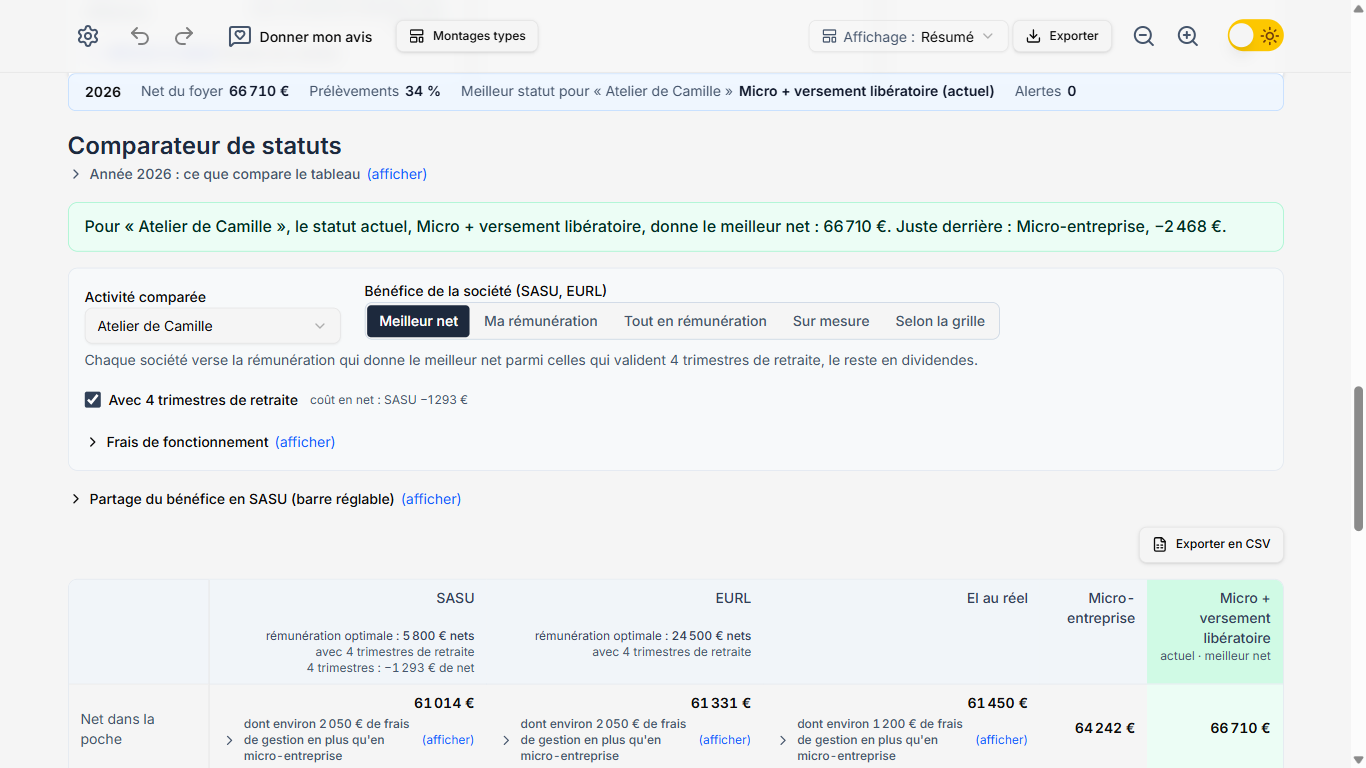
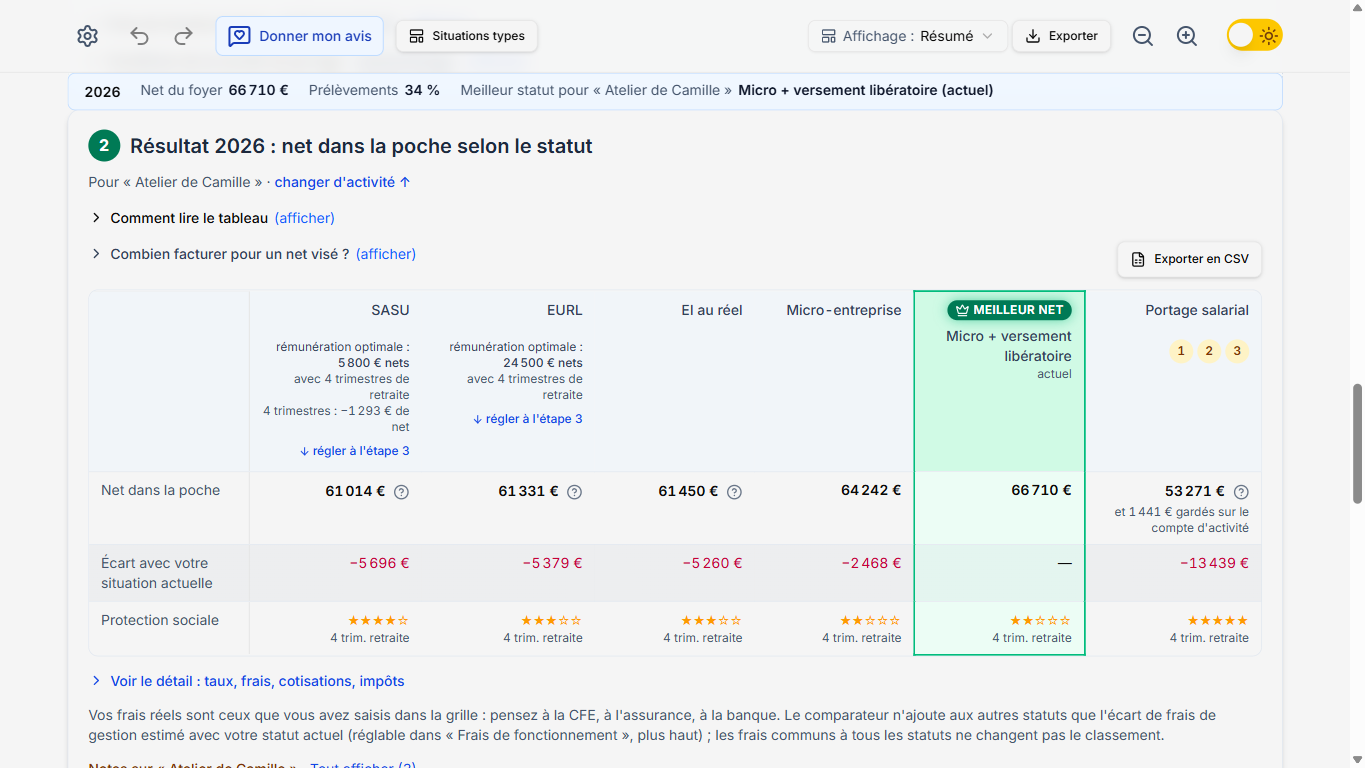
docs: Documentation et captures à jour avant la 0.14.0
- README : comparateur en trois étapes, versements reçus dans la grille, 4 trimestres colonne par colonne, recherche des situations types, AutoAnimate, tests sur integration et dans Firefox ;
- guide du développeur : captures du Store, ADR 017 à 019, animations (useListeAnimee, HauteurAnimee) ;
- Roadmap : état au 22/11, étape « Comparer et optimiser » en trois étapes, douze situations types ;
- installation (bandeau réduit), IA (limite de rémunération, zone franche), publication (captures avant une version) ;
- captures : README à l'échelle CSS (même taille quel que soit l'écran), comparateur entier dans une page de 2 400 px, résultats sous la barre de résumé ; Store : le tableau du comparateur (étape 2) au lieu de son haut.

diff --git a/captures/readme.captures.ts b/captures/readme.captures.ts
@@ -5,6 +5,7 @@ import path from "node:path"
 import { test, expect, deposerSession } from "../e2e/support/fixtures"
 import { sessionExemple } from "../src/web/session-exemple"
 
+// À l'échelle CSS (1 pixel par pixel de la page) : des images de même taille quel que soit le facteur d'échelle de l'écran.
 const DOSSIER = path.resolve("docs/captures")
 
 test("captures du README", async ({ dossierDonnees, lancer }) => {
@@ -16,19 +17,23 @@ test("captures du README", async ({ dossierDonnees, lancer }) => {
   // Fenêtre plus haute pour cette capture : les personnes et activités, puis plusieurs lignes de la grille de saisie.
   await electronApp.evaluate(({ BrowserWindow }) => BrowserWindow.getAllWindows()[0]?.setSize(1440, 1500))
   await expect.poll(() => page.evaluate(() => window.innerHeight)).toBeGreaterThan(1300)
-  await page.screenshot({ path: path.join(DOSSIER, "acteurs-et-grille.png") })
+  await page.screenshot({ path: path.join(DOSSIER, "acteurs-et-grille.png"), scale: "css" })
   await electronApp.evaluate(({ BrowserWindow }) => BrowserWindow.getAllWindows()[0]?.setSize(1440, 900))
   await expect.poll(() => page.evaluate(() => window.innerHeight)).toBeLessThan(1000)
 
-  // La barre du haut est fixe : on fait défiler pour que la section commence juste en dessous.
-  await page.getByRole("heading", { name: "Résultats de simulation" }).evaluate(titre => window.scrollTo(0, titre.getBoundingClientRect().top + window.scrollY - 110))
-  await page.screenshot({ path: path.join(DOSSIER, "resultats.png") })
+  // La barre du haut est fixe et la barre de résumé collée dessous : on fait défiler pour que la section commence sous les deux.
+  await page.getByRole("heading", { name: "Résultats de simulation" }).evaluate(titre => window.scrollTo(0, titre.getBoundingClientRect().top + window.scrollY - 140))
+  await page.screenshot({ path: path.join(DOSSIER, "resultats.png"), scale: "css" })
 
   // Pour les captures d'une zone, la barre du haut (fixe) et la barre de résumé (collante) sont masquées : elles la
-  // recouvriraient. La fenêtre s'agrandit pour que le comparateur y tienne entier : une zone plus haute que la fenêtre
-  // est capturée décalée (la page, recalculée sans barre de défilement, se recentre pendant la capture).
+  // recouvriraient. La page est agrandie pour que le comparateur, en trois étapes, y tienne entier : une zone plus haute
+  // que la page est capturée décalée (la page, recalculée sans barre de défilement, se recentre pendant la capture). Une
+  // fenêtre de cette hauteur dépasserait l'écran, que Windows lui impose : la taille est imposée à la page elle-même.
   const sansBarre = "nav, [data-barre-collante] { visibility: hidden !important; }"
-  await electronApp.evaluate(({ BrowserWindow }) => BrowserWindow.getAllWindows()[0]?.setSize(1440, 1150))
+  const cdp = await electronApp.context().newCDPSession(page)
+  const facteur = await page.evaluate(() => window.devicePixelRatio)
+  await cdp.send("Emulation.setDeviceMetricsOverride", { width: 1440, height: 2400, deviceScaleFactor: facteur, mobile: false })
+  await expect.poll(() => page.evaluate(() => window.innerHeight)).toBe(2400)
   const comparateur = page.getByRole("region", { name: "Comparateur de statuts" })
   const optimisation = page.getByRole("region", { name: "Rémunération ou dividendes ?" })
   await expect(comparateur.getByRole("table", { name: "Comparaison des statuts" })).toBeVisible()
@@ -36,7 +41,7 @@ test("captures du README", async ({ dossierDonnees, lancer }) => {
   // Le tableau des statuts seul, sans la section d'optimisation qui le suit ; une référence à l'élément la retrouve une fois masquée.
   const sectionOptimisation = await optimisation.elementHandle()
   await sectionOptimisation!.evaluate(section => section.setAttribute("hidden", ""))
-  await comparateur.screenshot({ path: path.join(DOSSIER, "comparateur.png"), style: sansBarre })
+  await comparateur.screenshot({ path: path.join(DOSSIER, "comparateur.png"), scale: "css", style: sansBarre })
   await sectionOptimisation!.evaluate(section => section.removeAttribute("hidden"))
-  await optimisation.screenshot({ path: path.join(DOSSIER, "optimisation.png"), style: sansBarre })
+  await optimisation.screenshot({ path: path.join(DOSSIER, "optimisation.png"), scale: "css", style: sansBarre })
 })

diff --git a/captures/store.captures.ts b/captures/store.captures.ts
@@ -15,7 +15,7 @@ const HAUTEUR = 768
 const capturer = (page: Page, nom: string) => page.screenshot({ path: path.join(DOSSIER, nom), scale: "css" })
 
 /** Fait défiler la page pour que l'élément commence juste sous la barre du haut, qui est fixe. */
-async function amenerSousLaBarre(page: Page, nom: string) {
+async function amenerSousLaBarre(page: Page, nom: string | RegExp) {
   await page.getByRole("heading", { name: nom }).first().evaluate(titre => window.scrollTo(0, titre.getBoundingClientRect().top + window.scrollY - 130))
 }
 
@@ -37,7 +37,8 @@ test("captures de la fiche du Microsoft Store", async ({ dossierDonnees, lancer 
   await capturer(page, "3-resultats.png")
 
   await expect(page.getByRole("region", { name: "Comparateur de statuts" }).getByRole("table", { name: "Comparaison des statuts" })).toBeVisible()
-  await amenerSousLaBarre(page, "Comparateur de statuts")
+  // L'étape 2 du comparateur, son tableau : le net de chaque statut, l'écart et la protection sociale.
+  await amenerSousLaBarre(page, /^Étape 2 : Résultat \d{4}/)
   await capturer(page, "4-comparateur.png")
 
   await expect(page.getByRole("region", { name: "Rémunération ou dividendes ?" }).getByRole("group", { name: /Net du foyer selon la rémunération/ })).toBeVisible()

diff --git a/README.md b/README.md
@@ -29,7 +29,7 @@ Simulation fictive : une indépendante en micro-entreprise mixte, pacsée avec l
 |---|---|
 | ![Acteurs et relations, éditables sur leur carte](docs/captures/acteurs-et-grille.png) | ![Bilan : net dans la poche, taux de prélèvement, détail par foyer](docs/captures/resultats.png) |
 
-![Comparateur de statuts : net, prélèvements, frais de fonctionnement et protection sociale pour chaque statut](docs/captures/comparateur.png)
+![Comparateur de statuts en trois étapes : l'activité comparée, le net dans la poche de chaque statut avec le meilleur net mis en évidence, puis le partage du bénéfice de la SASU et de l'EURL](docs/captures/comparateur.png)
 
 ![Rémunération ou dividendes : courbe du net du foyer selon la rémunération, meilleur net et meilleur net avec 4 trimestres de retraite](docs/captures/optimisation.png)
 
@@ -38,15 +38,15 @@ Les captures sont générées par `npm run captures` (Playwright, sur l'applicat
 ## ✨ Fonctionnalités
 
 - **Modélisation par graphe** : entités (personnes, sociétés, micro-entreprises) reliées par des relations (Marié(e), PACSé(e), Enfant, Président, Gérant…).
-- **Grille annuelle visuelle** : saisie des flux mois par mois ou d'un montant annuel réparti sur les 12 mois, ajout d'un flux sur plusieurs mois en une fois, modification ou retrait d'un mois puis, d'un clic, des autres mois où le même flux existe, et recopie sur les mois suivants (loyer, abonnement, salaire), légende numérotée et couleurs personnalisables. Pour une micro-entreprise, la nature du chiffre d'affaires (prestations libérales, prestations artisanales ou commerciales, vente de marchandises) est expliquée à la saisie, avec ses taux de l'année et des exemples de métiers.
+- **Grille annuelle visuelle** : saisie des flux mois par mois ou d'un montant annuel réparti sur les 12 mois, ajout d'un flux sur plusieurs mois en une fois, modification ou retrait d'un mois puis, d'un clic, des autres mois où le même flux existe, et recopie sur les mois suivants (loyer, abonnement, salaire), légende numérotée et couleurs personnalisables. La rémunération et les dividendes versés par une société s'affichent aussi, hachurés, sur la ligne de la personne qui les reçoit. Pour une micro-entreprise, la nature du chiffre d'affaires (prestations libérales, prestations artisanales ou commerciales, vente de marchandises) est expliquée à la saisie, avec ses taux de l'année et des exemples de métiers.
 - **Simulation par foyer** : chaque activité (SASU, EURL, entreprise individuelle au réel, micro-entreprise) calcule ses cotisations et ce qu'elle verse ; l'impôt sur le revenu est ensuite calculé une seule fois par foyer fiscal (quotient familial plafonné, décote, dividendes au forfait ou au barème). Les résultats se recalculent à chaque modification.
-- **Comparateur de statuts** : pour une activité, net dans la poche (celui des résultats pour le statut actuel), taux de prélèvement, écart de frais de gestion avec le statut actuel détaillé par poste, et note de protection sociale (trimestres de retraite validés) en SASU, EURL, EI au réel, micro-entreprise (avec et sans versement libératoire) et portage salarial ; pour un couple en union libre, effet d'un mariage ou d'un PACS sur l'impôt.
+- **Comparateur de statuts**, en trois étapes (ce qui est comparé, le résultat, les réglages de la société) : pour une activité, net dans la poche (celui des résultats pour le statut actuel) en SASU, EURL, EI au réel, micro-entreprise (avec et sans versement libératoire) et portage salarial, le meilleur net mis en évidence ; taux de prélèvement, écart de frais de gestion avec le statut actuel détaillé par poste, bénéfice gardé ou perte restée dans la société, et note de protection sociale (trimestres de retraite validés), détaillée garantie par garantie dans un tableau. Pour un couple en union libre, effet d'un mariage ou d'un PACS sur l'impôt.
 - **Portage salarial** : une colonne du comparateur où l'activité est facturée par une société de portage, qui verse un salaire de cadre du régime général après ses frais de gestion ; bulletin calculé ligne à ligne selon l'effectif de la société, réserve d'un CDI gardée sur le compte d'activité, protection sociale d'un salarié (assurance chômage comprise). Les conditions de la société (frais de gestion, plancher, plafond, frais fixes, contrat, effectif, versement mobilité, réduction générale reversée, mutuelle) se règlent dans « Conditions de la société de portage » ; à défaut, des valeurs typiques annoncées comme telles.
 - **Combien facturer pour un net visé** : le calcul à l'envers du comparateur ; pour le net annuel visé du foyer, le chiffre d'affaires annuel et mensuel nécessaire dans chaque statut, à l'euro près, et l'écart avec celui saisi (ou « hors de portée » quand il faudrait dépasser le plafond de la micro-entreprise).
-- **Rémunération ou dividendes** : pour une société à l'IS (SASU, EURL), courbe du net du foyer selon la rémunération du dirigeant, le reste du bénéfice étant versé en dividendes ; meilleure rémunération, et meilleure parmi celles qui valident 4 trimestres de retraite, à reporter dans le comparateur en un clic. Par défaut, le comparateur place la SASU et l'EURL chacune à sa rémunération optimale qui valide 4 trimestres de retraite, tout le reste en dividendes, et affiche ce que coûte cette exigence en net (elle se décoche). Le partage du bénéfice se choisit (tout en rémunération, tout en dividendes, ou répartition personnalisée) sur une barre réglée à la souris, au doigt ou au clavier, qui montre où va chaque euro du bénéfice.
+- **Rémunération ou dividendes** : pour une société à l'IS (SASU, EURL), courbe du net du foyer selon la rémunération du dirigeant, le reste du bénéfice étant versé en dividendes ; meilleure rémunération, et meilleure parmi celles qui valident 4 trimestres de retraite, à reporter dans le comparateur en un clic. Par défaut, le comparateur place la SASU et l'EURL chacune à sa rémunération optimale qui valide 4 trimestres de retraite, tout le reste en dividendes, et affiche ce que coûte cette exigence en net (elle se décoche colonne par colonne). Une société ne verse jamais plus que ce qu'elle peut sans déficit, et la saisie d'une rémunération le rappelle. Le partage du bénéfice se choisit (tout en rémunération, tout en dividendes, ou répartition personnalisée) sur une barre réglée à la souris, au doigt ou au clavier, qui montre où va chaque euro du bénéfice.
 - **Professions libérales réglementées** : profession choisie sur l'activité (santé de la CARPIMKO, professions de la CIPAV), dont la caisse se déduit : retraite de base des libéraux, complémentaire et invalidité-décès de la caisse, micro-entreprise de la CIPAV à 23,2 % et interdite aux auxiliaires médicaux, CURPS, ASV et prise en charge par l'Assurance maladie de la part conventionnée ; complémentaire et ASV de la CARPIMKO sur le revenu de l'année précédente.
 - **Frais réels et kilométrage** : trajets domicile-travail au barème kilométrique de l'année, un par lieu de travail (limite de 40 km par trajet, kilomètres additionnés par voiture), comparés automatiquement à la déduction de 10 % sur les salaires et rémunérations ; déplacements professionnels d'une activité convertis au barème, déductibles au réel, jamais en micro.
-- **Situations types** : partir d'une situation courante (micro-entreprise, SASU, EURL, couple, ostéopathe, kinésithérapeute, SASU en zone franche urbaine…) préremplie et expliquée, avec ses sources, puis l'adapter. Au premier lancement, ou sur une simulation vide, l'encart « Que voulez-vous savoir ? » y mène par la question posée (combien me restera-t-il, société ou micro, mariage ou Pacs, rémunération ou dividendes, cotisations), ou part de zéro. Dans la démo web, chaque situation type a son lien (par exemple `…/simulateur-independant-fr/#situation=couple-union-libre`), à mettre dans un article pour « Ouvrir cet exemple dans le simulateur » : voir la [liste des identifiants](./documentation/liens-vers-les-situations-types.md).
+- **Situations types** : partir d'une situation courante (micro-entreprise, SASU, EURL, couple, ostéopathe, kinésithérapeute, SASU en zone franche urbaine…) préremplie et expliquée, avec ses sources, puis l'adapter ; une recherche et des filtres (statut, seul ou en couple) les trient. Au premier lancement, ou sur une simulation vide, l'encart « Que voulez-vous savoir ? » y mène par la question posée (combien me restera-t-il, société ou micro, mariage ou Pacs, rémunération ou dividendes, cotisations), ou part de zéro. Dans la démo web, chaque situation type a son lien (par exemple `…/simulateur-independant-fr/#situation=couple-union-libre`), à mettre dans un article pour « Ouvrir cet exemple dans le simulateur » : voir la [liste des identifiants](./documentation/liens-vers-les-situations-types.md).
 - **Dispositifs dans le temps** : ACRE mois par mois, CFE de création et sortie du régime micro après deux années au-delà des plafonds, d'après la date de création de l'activité.
 - **Zone franche urbaine et quartier prioritaire** : une case dans la fiche de l'activité (section repliée « Aides liées au lieu d'implantation ») exonère son bénéfice d'impôt, en tout ou partie, selon sa date de création : régime ZFU-TE pour une création de 2015 à 2025 (bénéfice exonéré plafonné à 50 000 € par an), régime QPV de 2026 à 2030 ; exonération totale pendant soixante mois, puis 60 %, 40 % et 20 %. Les conditions d'accès ne sont pas vérifiées : un avertissement les rappelle, et la fiche dit ce que le calcul suppose. Rien n'apparaît tant que la case n'est pas cochée.
 - **Plusieurs années** : une simulation couvre plusieurs années consécutives (2024 à 2026, et au-delà avec les dernières règles connues et un avertissement), chacune simulée avec ses propres règles ; le revenu fiscal de référence est calculé par foyer et reporté sur le versement libératoire deux ans plus tard ; un tableau compare les années. Jusqu'à dix années consécutives par simulation ; une charge ou un revenu récurrent s'ajoute, se modifie ou se supprime sur plusieurs années à la fois (cases « Aussi en » de la fenêtre des flux, avec raccourcis vers toutes les années, les précédentes ou les suivantes).
@@ -74,7 +74,7 @@ Les captures sont générées par `npm run captures` (Playwright, sur l'applicat
 - **Application :** Electron (process principal Node.js, IPC typé via `contextBridge`).
 - **Interface :** React 19, hooks maison (historique undo/redo, sauvegarde debounced).
 - **Typage & validation :** TypeScript strict, Zod comme source de vérité unique.
-- **Design system :** Tailwind CSS v4, ShadCN/UI, Lucide, dnd-kit.
+- **Design system :** Tailwind CSS v4, ShadCN/UI, Lucide, dnd-kit, AutoAnimate (listes animées).
 - **Build :** Vite, electron-builder.
 
 ## ✨ Points d'intérêt dans le code
@@ -130,8 +130,8 @@ npm run test:mutation  # tests de mutation (Stryker), rapport dans reports/mutat
 - **Cas de référence 2026** : `src/backend/logic/references/` fait tourner le moteur avec les règles réelles de 2026 sur une soixantaine de situations (micro-entreprise, SASU, EURL, EI, salaires, familles, comparateur), dont chaque montant attendu est dérivé à la main des règles officielles. Ils sont liés à 2026 pour toujours, comme les situations types : l'ajout des règles d'une année plus récente ne les désactive pas et ne change pas leurs chiffres (un test le vérifie avec une année fictive).
 - **Valeurs limites** : chaque seuil est testé pile dessus et un euro au-delà (plafonds et TVA de la micro, revenu fiscal de référence du versement libératoire, 4 trimestres, plafond de la sécurité sociale, 3 SMIC de la réduction générale, dividendes d'EURL à 10 % du capital), ainsi que les noms hostiles dans les exports (séparateurs, retours à la ligne, formules), les fichiers retouchés à la main et les séries de flux en bord d'année.
 - **Tests de composants** : fichiers `*.test.tsx` (React Testing Library, user-event, jsdom) qui rejouent les parcours de saisie au clavier, la fenêtre des flux, les cartes d'entités, les résultats et l'historique d'annulation ; `window.api` y est simulé (`src/ui/testing/`).
-- **Tests de bout en bout** (optionnels) : fichiers `e2e/*.e2e.ts`, où Playwright pilote l'application Electron compilée (création d'entités, saisie dans la grille, résultats, historique, sauvegarde automatique, conversion d'un ancien format, sauvegardes nommées). Chaque test lance l'application sur un dossier de données temporaire (`--user-data-dir`), sans toucher aux vraies données ; aucun navigateur à télécharger. En intégration continue, ils tournent sur `main` et à la demande.
-- **Démo web** : `e2e-web/*.web.ts` ouvre la version navigateur compilée dans Chromium (simulation d'exemple, calculs, conservation des modifications, retour à l'exemple ; manifeste, installabilité relevée par Chromium, réouverture et calcul hors ligne dans `installable.web.ts`, seul fichier où le service worker n'est pas bloqué). Elle nécessite une fois `npm run installer:chromium`. À chaque push sur `main`, la CI la teste puis la publie sur GitHub Pages.
+- **Tests de bout en bout** (optionnels) : fichiers `e2e/*.e2e.ts`, où Playwright pilote l'application Electron compilée (création d'entités, saisie dans la grille, résultats, historique, sauvegarde automatique, conversion d'un ancien format, sauvegardes nommées). Chaque test lance l'application sur un dossier de données temporaire (`--user-data-dir`), sans toucher aux vraies données ; aucun navigateur à télécharger. En intégration continue, ils tournent sur `integration`, sur `main` et à la demande.
+- **Démo web** : `e2e-web/*.web.ts` ouvre la version navigateur compilée dans Chromium (simulation d'exemple, calculs, conservation des modifications, retour à l'exemple ; manifeste, installabilité relevée par Chromium, réouverture et calcul hors ligne dans `installable.web.ts`, seul fichier où le service worker n'est pas bloqué). Elle nécessite une fois `npm run installer:chromium`. Les fichiers de mise en page sont aussi joués dans Firefox (`npm run test:web:firefox:mise-en-page`), sur `integration` et `main`. À chaque push sur `main`, la CI la teste puis la publie sur GitHub Pages.
 - **Accessibilité (WCAG 2.2 AA, qui couvre le RGAA)** : audit axe-core de la démo web et de l'application dans les tests de bout en bout (chargement, comparateur déplié, mode sombre, téléphone, fenêtres), bloquant en CI ; tests dédiés des zones cliquables (24 px, 44 px sur écran tactile), des tailles de texte (12 px au moins, 14 px pour les phrases), du parcours au clavier avec focus visible et du curseur.
 - **Couverture** : seuil bloquant de 90 % (instructions, branches, fonctions, lignes) sur `src/backend/logic/` et `src/lib/`.
 - **Complexité** : règle ESLint `complexity` plafonnée à 12 sur `src/`, sans exception.

diff --git a/Roadmap.md b/Roadmap.md
@@ -1,10 +1,10 @@
 # Roadmap de Développement Détaillée v3.0
 
-- **Dernière mise à jour :** 19/11/2026
+- **Dernière mise à jour :** 22/11/2026
 
 ## **État Actuel du Projet**
 
-Le socle (graphe d'entités, grille visuelle, persistance validée par Zod), les tests automatisés avec intégration continue, le moteur de simulation par foyer fiscal, le comparateur de statuts et l'arbitrage rémunération / dividendes sont en place, avec une démo web publiée sur GitHub Pages. L'accessibilité (WCAG 2.2 AA) est vérifiée automatiquement. Les chiffres s'exportent en CSV, en PDF et en rapport Markdown. Les cotisations du président de SASU et des salariés sont calculées ligne à ligne. Une session couvre désormais plusieurs années, chacune avec ses règles, et le revenu fiscal de référence est reporté sur le versement libératoire. Sont venus depuis : bénéfice mis en réserve, flux récurrents, sortie du régime micro, professions libérales réglementées (CIPAV, CARPIMKO), portage salarial, calcul à l'envers (« Combien facturer ? »), serveur MCP local pour les IA (propositions validées dans l'application, ou modification directe sauf suppression), situations types et leurs liens, affichage « Trois vues » par défaut. Prochaine étape : les retours des utilisateurs (issue 1 : le conjoint est fait ; l'exonération d'impôt sur les bénéfices ZFU-TE / QPV reste à faire).
+Le socle (graphe d'entités, grille visuelle, persistance validée par Zod), les tests automatisés avec intégration continue, le moteur de simulation par foyer fiscal, le comparateur de statuts et l'arbitrage rémunération / dividendes sont en place, avec une démo web publiée sur GitHub Pages. L'accessibilité (WCAG 2.2 AA) est vérifiée automatiquement. Les chiffres s'exportent en CSV, en PDF et en rapport Markdown. Les cotisations du président de SASU et des salariés sont calculées ligne à ligne. Une session couvre désormais plusieurs années, chacune avec ses règles, et le revenu fiscal de référence est reporté sur le versement libératoire. Sont venus depuis : bénéfice mis en réserve, flux récurrents, sortie du régime micro, professions libérales réglementées (CIPAV, CARPIMKO), portage salarial, calcul à l'envers (« Combien facturer ? »), serveur MCP local pour les IA (propositions validées dans l'application, ou modification directe sauf suppression), situations types et leurs liens, affichage « Trois vues » par défaut, puis, pour la version 0.14.0 : exonération d'impôt sur les bénéfices en zone franche urbaine ou en quartier prioritaire (ADR 017, issue 1), règles de structure (ADR 018), perte et bénéfice gardé dans la comparaison (ADR 019), onglet « Comparer et optimiser » en trois étapes, interface lisible de 50 % à 200 % de zoom, et vérifiée dans Firefox. Prochaine étape : les retours des utilisateurs (phase 13 quater) et le choix de l'affichage à garder.
 
 > **Chantier en cours : les professions libérales réglementées et leurs caisses (phase 14 bis).** Les affiliés de la CIPAV et de la CARPIMKO (ostéopathes, psychologues, architectes, kinésithérapeutes, infirmiers…) ont désormais leurs propres cotisations, au réel et en micro-entreprise. Restent les autres caisses (CARMF, CARCDSF, CNBF…), calculées comme une profession non réglementée avec un avertissement ; deux montages types (ostéopathe, kinésithérapeute) en partent.
 
@@ -215,6 +215,7 @@ Le socle (graphe d'entités, grille visuelle, persistance validée par Zod), les
 8.  **Réglages du comparateur sur une ligne [✅] :** les cinq modes de partage (Meilleur net, Ma rémunération, Tout en rémunération, Sur mesure, Selon la grille) sur la ligne de l'activité avec la phrase du mode choisi, un curseur de rémunération borné au maximum sans déficit du statut étudié (une valeur plus haute reste possible au clavier), frais de fonctionnement et part BNC à un seul clic.
 9.  **Bande des mois de la grille [✅] :** au-dessus de la grille, dès qu'elle déborde (téléphone comme ordinateur) : bande collante des douze mois (mois visibles en surbrillance, point sous les mois qui ont des flux, toucher ou glisser pour aller à un mois), flèches mois précédent / suivant et fondus aux bords pour signaler le défilement horizontal.
 10.  **Garde-fous :** accessibilité inchangée (tests axe, clavier, tailles des cibles), impression et PDF qui déplient tout, tests de bout en bout adaptés aux nouveaux chemins.
+11.  **« Comparer et optimiser » en trois étapes [✅] :** « Ce qui est comparé » (l'activité, les hypothèses repliées, chacune avec la puce des colonnes qu'elle change), « Résultat » (le tableau, meilleur net couronné, notes dans des bulles, protection sociale en tableau) et « Et en société ? » (partage du bénéfice, 4 trimestres de retraite colonne par colonne, « Approfondir une société » sur un seul choix SASU / EURL). Les réglages du point 8 y sont répartis.
 
 ---
 
@@ -234,7 +235,7 @@ Le socle (graphe d'entités, grille visuelle, persistance validée par Zod), les
 
 - **Objectif :** partir d'une situation courante plutôt que d'une page vide. Peut s'intercaler entre deux autres phases.
 
-1.  **Bibliothèque de montages [✅] :** onze montages types (micro-entreprise seule, ostéopathe en micro-entreprise, kinésithérapeute conventionné en entreprise individuelle, SASU sans salaire, SASU avec un salaire qui valide 4 trimestres, EURL à l'IS, salarié avec une micro-entreprise, SASU avec un conjoint salarié ailleurs, micro-entreprise et SASU du conjoint, conjoint salarié de la SASU, couple en union libre), chargés depuis les paramètres ou une simulation vide, avec confirmation avant de remplacer une simulation non enregistrée ; leurs chiffres 2026 sont figés par un test de référence. L'EURL à l'IR est approchée par l'EI au réel du comparateur.
+1.  **Bibliothèque de montages [✅] :** douze montages types (micro-entreprise seule, ostéopathe en micro-entreprise, kinésithérapeute conventionné en entreprise individuelle, SASU sans salaire, SASU avec un salaire qui valide 4 trimestres, SASU en zone franche urbaine, EURL à l'IS, salarié avec une micro-entreprise, SASU avec un conjoint salarié ailleurs, micro-entreprise et SASU du conjoint, conjoint salarié de la SASU, couple en union libre), trouvés par une recherche et des filtres (statut, seul ou en couple), chargés depuis les paramètres ou une simulation vide, avec confirmation avant de remplacer une simulation non enregistrée ; leurs chiffres 2026 sont figés par un test de référence. L'EURL à l'IR est approchée par l'EI au réel du comparateur.
 2.  **Explication [✅] :** pour chaque montage, ce qu'il illustre, ses conditions, ses risques et ses sources officielles.
 3.  **Plus tard :** recherche automatique d'une meilleure structure, en s'appuyant sur le comparateur et l'optimiseur.
 

diff --git a/documentation/GUIDE_DEVELOPPEUR.md b/documentation/GUIDE_DEVELOPPEUR.md
@@ -55,7 +55,7 @@ npm run installer:chromium            # une fois : le Chromium des tests de la d
 | `npm run build` / `npm run build:web` | Compile l'interface (`dist-react/`) ou la démo (`dist-web/`). | Rarement à la main. |
 | `npm run dist:win`, `dist:mac`, `dist:linux`, `dist:store` | Exécutables (electron-builder). | Voir [publication.md](./publication.md). |
 | `npm run essai:store` | Sous Windows : installe une copie signée du paquet du Microsoft Store comme le Store l'installe et vérifie le serveur MCP ; `verifier`, `etat`, `nettoyer`. | Avant une soumission : [publier-sur-le-store.md](./microsoft-store/publier-sur-le-store.md#2-essayer-le-paquet-avant-la-première-soumission). |
-| `npm run captures` | Captures d'écran du README. | Après un changement visible. |
+| `npm run captures` | Captures d'écran du README (`docs/captures/`) et de la fiche du Microsoft Store (`documentation/microsoft-store/captures/`, 1366 × 768), sur la simulation d'exemple de la démo (`captures/*.captures.ts`). | Après un changement visible, et avant chaque version. |
 
 La CI (`.github/workflows/ci.yml`) lance lint, `code-mort`, `typecheck`, `transpile:electron`, `typecheck:tests`, `test:coverage`, `build` et la duplication à chaque push ; `e2e.yml` les tests de bout en bout sur `integration` et `main`, de l'application Electron (`test:e2e`) et de la démo web (`test:web`, et sa mise en page dans Firefox, `test:web:firefox:mise-en-page`) ; `demo-web.yml` teste et publie la démo à chaque push sur `main`.
 
@@ -224,7 +224,7 @@ flowchart TD
 | `migrations.ts`, `data-sanitizer.ts`, `nettoyage-comparateur.ts`, `fichiers-de-donnees.ts`, `sauvegardes-groupees.ts`, `donnees-brutes.ts` | Format de fichier : conversion, nettoyage, lecture et écriture des contenus (`estObjet`, commun, teste un objet JSON encore non validé). | `donnees-de-l-application.ts`, démo, serveur MCP |
 | `baremes.ts`, `format.ts` | Barèmes par tranches et progressifs ; formatage. | calculs |
 
-ADR à lire selon le sujet : persistance 002 et 005 ; IPC 003 ; état de l'interface 004 ; grille 006 ; années de règles 007 ; plusieurs années 008 ; réglages du comparateur 009 ; outils pour les IA 010 et 011 ; démo installable 012 ; Microsoft Store 013 ; réserves 014 ; libéraux réglementés 015 ; portage salarial 016.
+ADR à lire selon le sujet : persistance 002 et 005 ; IPC 003 ; état de l'interface 004 ; grille 006 ; années de règles 007 ; plusieurs années 008 ; réglages du comparateur 009 ; outils pour les IA 010 et 011 ; démo installable 012 ; Microsoft Store 013 ; réserves 014 ; libéraux réglementés 015 ; portage salarial 016 ; exonération en zone franche ou en quartier prioritaire 017 ; règles de structure (rôles permis, entreprises d'un même titulaire) 018 ; ce que le comparateur compare (perte, bénéfice gardé) 019.
 
 ### 2.4 Process principal d'Electron
 
@@ -245,11 +245,12 @@ ADR à lire selon le sujet : persistance 002 et 005 ; IPC 003 ; état de l'inter
 
 Un nouveau canal : sa signature dans `EventPayloadMapping` (`src/globals.d.ts`), son entrée dans `preload.cts` et dans `creerApiNavigateur` (démo web), puis sa déclaration dans le fichier `canaux-*.ts` de son domaine, toujours par `ipcMainHandle`, avec un schéma de `logic/entrees-ipc.ts` pour chaque paramètre.
 
-### 2.5 Interface : ancres de la page et calculs différés
+### 2.5 Interface : ancres de la page, calculs différés et animations
 
 - **Ancres** : tout élément vers lequel mène un lien interne ou une adresse (`#bilan`, `#comparateur-verdict`, `#contenu`…) a son identifiant dans le registre `ANCRES` (`src/lib/ancres.ts`), jamais écrit à la main : l'élément prend `id={ANCRES.bilan}`, le lien `href={lienVers(ANCRES.bilan)}`, une question de départ `ancre: ANCRES.…`. Une ancre ajoutée au registre doit dire sa vue dans `VUE_DE_L_ANCRE` (`src/lib/vues.ts`, table exhaustive) ; `App.ancres.test.tsx` vérifie que chacune est rendue, dans sa vue. Les valeurs sont des adresses publiées : ne les renommez pas.
 - **Adresse d'une situation type** (démo web) : `#situation=<identifiant>` charge une situation type, avec la confirmation de la fenêtre sur une simulation non enregistrée, puis le fragment est retiré (`history.replaceState`). Lecture et liens dans `src/lib/montages/adresse.ts`, comportement dans `SituationParLAdresse.tsx`, actif seulement si la plateforme fournit `lienVersUneSituation` (`plateforme-web.ts`) : l'application de bureau ne lit pas cette adresse. `destinationDeLAdresse` (`vues.ts`) l'écarte, pour qu'elle ne soit pas prise pour la vue « situation ». Les identifiants (`MontageType.id`) sont publics : liste figée par `adresse.test.ts` et publiée dans [liens-vers-les-situations-types.md](./liens-vers-les-situations-types.md).
 - **Calcul différé** : un calcul du moteur relancé après chaque modification passe par `useCalculDiffere` (`src/ui/hooks/useCalculDiffere.ts`) : l'appelant mémorise le calcul avec `useCallback` (ses dépendances sont vérifiées par ESLint chez lui), le hook attend 300 ms, ignore un résultat dépassé et garde le dernier résultat en cas d'échec, sauf `effacerEnCasDEchec` (la simulation des années, `useSimulationDesAnnees`).
+- **Animations** : une liste dont les éléments arrivent ou partent (flux d'un mois, cartes des acteurs, cases de la grille) passe par `useListeAnimee` (`src/ui/hooks/useListeAnimee.ts`, sur `@formkit/auto-animate`) : 200 ms, rien quand le système demande moins d'animations. Le hook rend une ref à poser sur le conteneur et des gestionnaires pour le glisser-déposer de dnd-kit, qui coupent l'animation pendant le geste. Avec `suivreLesHauteurs`, un enfant qui change de hauteur fait glisser ceux du dessous (la grille). Un bloc dont le contenu change de hauteur sans entrer ni sortir passe par `HauteurAnimee` (`src/ui/components/HauteurAnimee.tsx`), qui revient à sa hauteur naturelle au repos. Dans jsdom, qui n'a pas les Web Animations, les deux ne font rien.
 
 ---
 

diff --git a/documentation/utiliser-avec-une-ia.md b/documentation/utiliser-avec-une-ia.md
@@ -9,7 +9,7 @@ Ce n'est pas l'avis d'un expert-comptable. La démo web n'a pas ce serveur : il 
 Dix-sept outils, décrits dans l'[ADR 010](./adr/010-outils-pour-les-clients-d-ia.md) :
 
 - **lire** : décrire la simulation (années, acteurs, relations), lister les flux saisis, les règles fiscales de l'année ;
-- **calculer** : simuler une année, la synthèse des années, le détail du résultat d'un acteur, le comparateur de statuts (SASU, EURL, EI au réel, micro-entreprise et portage salarial, aux conditions de société de portage réglées dans le comparateur), son calcul à l'envers (le chiffre d'affaires qu'il faut dans chaque statut pour un net visé : « combien facturer pour toucher 30 000 € nets ? »), l'arbitrage rémunération et dividendes (avec l'écart entre la rémunération et les dividendes saisis et le meilleur net ; dans un autre statut que l'actuel, l'écart de frais de fonctionnement supposés compris) ;
+- **calculer** : simuler une année, la synthèse des années, le détail du résultat d'un acteur, le comparateur de statuts (SASU, EURL, EI au réel, micro-entreprise et portage salarial, aux conditions de société de portage réglées dans le comparateur), son calcul à l'envers (le chiffre d'affaires qu'il faut dans chaque statut pour un net visé : « combien facturer pour toucher 30 000 € nets ? »), l'arbitrage rémunération et dividendes (avec l'écart entre la rémunération et les dividendes saisis et le meilleur net ; dans un autre statut que l'actuel, l'écart de frais de fonctionnement supposés compris), la plus haute rémunération qu'une société peut verser sans déficit, et le bénéfice exonéré d'une activité en zone franche urbaine ou en quartier prioritaire ;
 - **proposer** : des flux, un acteur, une relation, des modifications, des suppressions (séries de flux, relations, acteurs avec leurs relations et leurs flux, années, ou toute la simulation pour repartir de zéro), des réglages du comparateur ; **rafraîchir** une proposition périmée ;
 - **envoyer une proposition à l'application** (`appliquer_proposition`).
 

diff --git a/documentation/installation.md b/documentation/installation.md
@@ -56,7 +56,7 @@ La [démo en ligne](https://damienbecherini.github.io/simulateur-independant-fr/
 **Dans Microsoft Edge**
 
 1. Ouvrez la [démo en ligne](https://damienbecherini.github.io/simulateur-independant-fr/) et attendez que la simulation d'exemple s'affiche.
-2. Cliquez sur l'icône **Application disponible. Installer Simulateur indépendant FR** à droite de la barre d'adresse, ou ouvrez le menu **⋯** (Paramètres et plus) > **Applications** > **Installer ce site en tant qu'application**. Le bouton **Comment faire ?** du bandeau de la démo (ou **Installer le simulateur**, dans le panneau des paramètres) montre ces étapes en images et, quand Edge le permet, propose **Installer maintenant**, qui ouvre la même fenêtre.
+2. Cliquez sur l'icône **Application disponible. Installer Simulateur indépendant FR** à droite de la barre d'adresse, ou ouvrez le menu **⋯** (Paramètres et plus) > **Applications** > **Installer ce site en tant qu'application**. Le bouton **Comment faire ?** du bandeau de la démo (réduit, le bandeau se déplie d'un clic sur sa pastille **Démo web** ; ou **Installer le simulateur**, dans le panneau des paramètres) montre ces étapes en images et, quand Edge le permet, propose **Installer maintenant**, qui ouvre la même fenêtre.
 3. Confirmez avec **Installer**. Edge peut ensuite proposer d'épingler l'application à la barre des tâches, au menu Démarrer ou au bureau.
 
 **Dans Google Chrome** : icône d'installation à droite de la barre d'adresse, ou menu **⋮** > **Caster, enregistrer et partager** > **Installer la page en tant qu'application** (selon la version, **Installer Simulateur indépendant FR…** directement dans le menu).

diff --git a/documentation/publication.md b/documentation/publication.md
@@ -19,6 +19,7 @@ Numérotation ([versionnage sémantique](https://semver.org/lang/fr/)) : le dern
 - [ ] `main` contient tout ce qui doit partir, et l'intégration continue y est au vert : CI (lint, types, tests avec couverture, build), tests de bout en bout, démo web.
 - [ ] `package.json` et `package-lock.json` portent le numéro de la version (`node -p "require('./package.json').version"`).
 - [ ] [CHANGELOG.md](../CHANGELOG.md) a une section `## [X.Y.Z] — AAAA-MM-JJ` datée, une section « Non publié » vide au-dessus, et les liens de comparaison en bas du fichier pointent vers la nouvelle étiquette.
+- [ ] Si l'interface a changé, les captures du README et de la fiche du Store sont régénérées (`npm run captures`) et relues, et la fiche du Store ([microsoft-store/fiche-du-store.md](./microsoft-store/fiche-du-store.md)) dit les nouveautés.
 - [ ] Les noms de fichiers cités dans [installation.md](./installation.md) correspondent à ceux que produit electron-builder (voir le tableau plus bas).
 - [ ] Le workflow « Publication des exécutables » a été lancé à la main sur `main` au moins une fois depuis le dernier changement de `electron-builder.json` ou du workflow, et les trois systèmes ont produit leurs fichiers.
 - [ ] Au moins un exécutable construit a été lancé : la fenêtre s'ouvre, les résultats s'affichent, et le serveur MCP empaqueté répond (voir « Vérifier un exécutable » plus bas).
